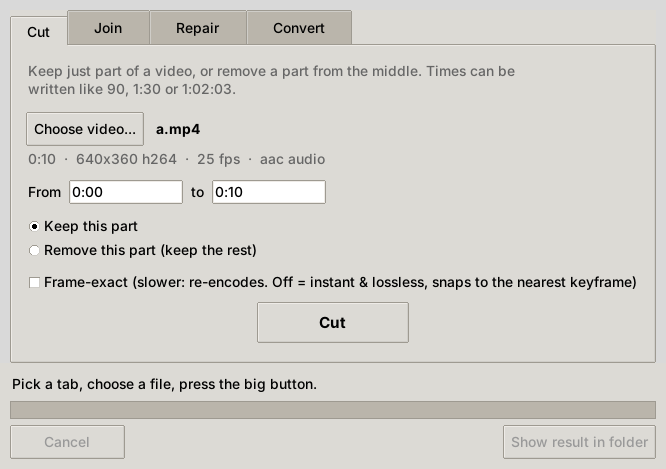
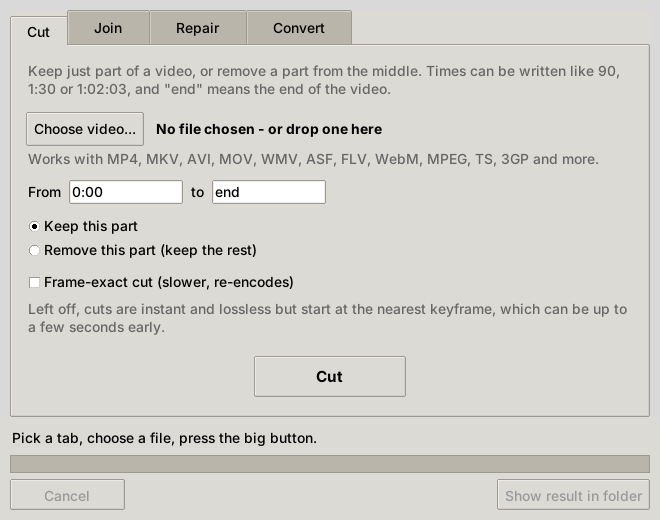
v1.0.1: window polish
- Hint and status text re-wrap to the window width
- Cut's end time starts as "end" (the end of the video)
- File details line shows supported formats until a file is chosen
- Start buttons sit right under the options; Repair explains both modes
- Larger default window and crisp rendering on high-DPI Windows screens
- Simplified icon for small sizes (title bar, taskbar)

Claude-Session: https://claude.ai/code/session_016hSe4ehEt3U4vrJYAyYzF3

diff --git a/teacut.py b/teacut.py
@@ -26,7 +26,7 @@ import tempfile
 import threading
 
 APP_NAME = "TeaCut"
-VERSION = "1.0.0"
+VERSION = "1.0.1"
 
 # Extensions offered in the file picker. FFmpeg reads far more than this;
 # "All files" is always available too.
@@ -705,6 +705,12 @@ def gui():
     import tkinter as tk
     from tkinter import ttk, filedialog, messagebox
 
+    if sys.platform.startswith("win"):
+        try:  # render crisply on high-DPI screens instead of being bitmap-stretched
+            import ctypes
+            ctypes.windll.shcore.SetProcessDpiAwareness(1)
+        except Exception:
+            pass
     try:
         from tkinterdnd2 import TkinterDnD, DND_FILES
         root = TkinterDnD.Tk()
@@ -713,13 +719,13 @@ def gui():
         root = tk.Tk()
 
     root.title(f"{APP_NAME}")
-    icon = os.path.join(_app_dir(), "assets", "teacut.png")
-    if os.path.isfile(icon):
-        try:
-            root.iconphoto(True, tk.PhotoImage(file=icon))
-        except tk.TclError:
-            pass
-    root.minsize(560, 420)
+    icons = [os.path.join(_app_dir(), "assets", n) for n in ("teacut.png", "teacut-small.png")]
+    try:
+        root.iconphoto(True, *[tk.PhotoImage(file=i) for i in icons if os.path.isfile(i)])
+    except (tk.TclError, TypeError):
+        pass
+    root.geometry("660x520")
+    root.minsize(600, 480)
     try:
         root.tk.call("tk", "scaling", max(1.0, root.winfo_fpixels("1i") / 72.0))
     except tk.TclError:
@@ -740,6 +746,11 @@ def gui():
         root.destroy()
         return
 
+    def wrapping_label(parent, **kw):
+        label = ttk.Label(parent, justify="left", **kw)
+        label.bind("<Configure>", lambda e: label.configure(wraplength=max(200, e.width - 4)))
+        return label
+
     events = queue.Queue()
     state = {"job": None, "last_output": None}
     filetypes = [("Video files", " ".join(f"*.{e}" for e in VIDEO_EXTENSIONS)
@@ -753,7 +764,7 @@ def gui():
     bottom = ttk.Frame(root, padding=10)
     bottom.pack(fill="x")
     status = tk.StringVar(value="Pick a tab, choose a file, press the big button.")
-    ttk.Label(bottom, textvariable=status, wraplength=520).pack(fill="x")
+    wrapping_label(bottom, textvariable=status).pack(fill="x")
     bar = ttk.Progressbar(bottom, maximum=1000)
     bar.pack(fill="x", pady=6)
     btns = ttk.Frame(bottom)
@@ -840,7 +851,7 @@ def gui():
 
     def big_button(parent, text, cmd):
         b = ttk.Button(parent, text=text, style="Big.TButton", command=cmd)
-        b.pack(side="bottom", pady=(8, 4))
+        b.pack(pady=(18, 4))
         start_buttons.append(b)
         return b
 
@@ -850,7 +861,7 @@ def gui():
         row = ttk.Frame(parent)
         row.pack(fill="x", pady=(4, 2))
         name = tk.StringVar(value="No file chosen" + (" - or drop one here" if DND_FILES else ""))
-        details = tk.StringVar()
+        details = tk.StringVar(value="Works with MP4, MKV, AVI, MOV, WMV, ASF, FLV, WebM, MPEG, TS, 3GP and more.")
 
         def set_path(path):
             try:
@@ -869,13 +880,13 @@ def gui():
                 set_path(path)
         ttk.Button(row, text="Choose video...", command=choose).pack(side="left")
         ttk.Label(row, textvariable=name, font=("TkDefaultFont", 10, "bold")).pack(side="left", padx=10)
-        ttk.Label(parent, textvariable=details, style="Hint.TLabel").pack(anchor="w")
+        wrapping_label(parent, textvariable=details, style="Hint.TLabel").pack(fill="x")
         return holder, set_path
 
     def tab(title, hint):
         f = ttk.Frame(notebook, padding=14)
         notebook.add(f, text=title)
-        ttk.Label(f, text=hint, style="Hint.TLabel", wraplength=500, justify="left").pack(anchor="w", pady=(0, 8))
+        wrapping_label(f, text=hint, style="Hint.TLabel").pack(fill="x", pady=(0, 8))
         return f
 
     def need(holder):
@@ -886,13 +897,13 @@ def gui():
 
     # -- Cut ----------------------------------------------------------------
     t_cut = tab("  Cut  ", "Keep just part of a video, or remove a part from the middle. "
-                           "Times can be written like 90, 1:30 or 1:02:03.")
+                           "Times can be written like 90, 1:30 or 1:02:03, and \"end\" means the end of the video.")
     times = ttk.Frame(t_cut)
-    start_var, end_var = tk.StringVar(value="0:00"), tk.StringVar()
+    start_var, end_var = tk.StringVar(value="0:00"), tk.StringVar(value="end")
 
     def on_cut_file(info):
         start_var.set("0:00")
-        end_var.set(format_time(info.duration) if info.duration else "")
+        end_var.set(format_time(info.duration) if info.duration else "end")
     cut_file, cut_set = file_picker(t_cut, on_cut_file)
     times.pack(fill="x", pady=10)
     ttk.Label(times, text="From").pack(side="left")
@@ -903,14 +914,18 @@ def gui():
     ttk.Radiobutton(t_cut, text="Keep this part", variable=mode, value="keep").pack(anchor="w")
     ttk.Radiobutton(t_cut, text="Remove this part (keep the rest)", variable=mode, value="remove").pack(anchor="w")
     exact = tk.BooleanVar(value=False)
-    ttk.Checkbutton(t_cut, text="Frame-exact (slower: re-encodes. Off = instant & lossless, "
-                               "snaps to the nearest keyframe)", variable=exact).pack(anchor="w", pady=(8, 0))
+    ttk.Checkbutton(t_cut, text="Frame-exact cut (slower, re-encodes)", variable=exact).pack(anchor="w", pady=(8, 0))
+    wrapping_label(t_cut, style="Hint.TLabel",
+                   text="Left off, cuts are instant and lossless but start at the nearest keyframe, "
+                        "which can be up to a few seconds early.").pack(fill="x", pady=(4, 0))
 
     def do_cut():
         if not need(cut_file):
             return
         try:
-            a, b = parse_time(start_var.get()), parse_time(end_var.get())
+            a = parse_time(start_var.get())
+            end_text = end_var.get().strip().lower()
+            b = (cut_file["info"].duration or 1e7) if end_text in ("", "end") else parse_time(end_text)
         except ValueError as e:
             messagebox.showerror(APP_NAME, str(e))
             return
@@ -981,8 +996,13 @@ def gui():
                               "stutter, or stop early (broken index, bad timestamps, damaged data).")
     rep_file, rep_set = file_picker(t_rep, lambda info: None)
     deep = tk.BooleanVar(value=False)
-    ttk.Checkbutton(t_rep, text="Deep repair (re-encodes - slower, use if the quick fix wasn't enough)",
+    ttk.Checkbutton(t_rep, text="Deep repair (slower, re-encodes)",
                     variable=deep).pack(anchor="w", pady=(12, 0))
+    wrapping_label(t_rep, style="Hint.TLabel",
+                   text="Quick fix (default): rebuilds the file's structure without touching the picture "
+                        "or sound. Takes seconds and loses no quality.\n"
+                        "Deep repair: decodes everything that can still be read and re-creates the video "
+                        "with fresh timing. For files that still misbehave after the quick fix.").pack(fill="x", pady=(10, 0))
 
     def do_repair():
         if not need(rep_file):
